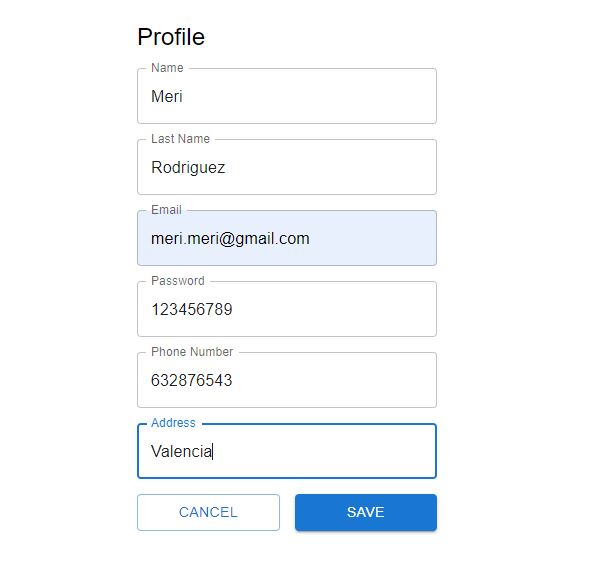
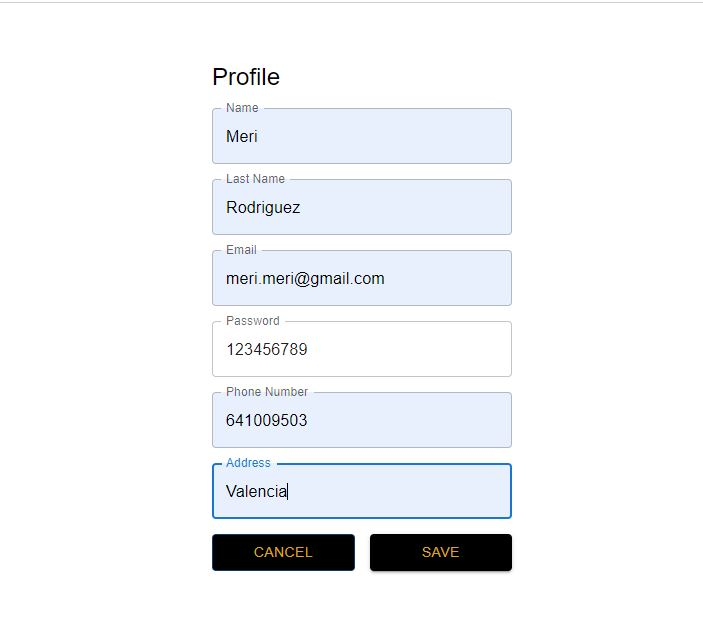
feat: clear code register, insert profile navbar

Changed region(s): [[0.2125, 0.031, 0.7589, 0.9294]]

diff --git a/src/components/navbar/NavBar.jsx b/src/components/navbar/NavBar.jsx
@@ -23,6 +23,7 @@ let navItems = [
   { name: "Appointments", path: "/appointments" },
   { name: "Login", path: "/login", protected: false },
   { name: "Register", path: "/register", protected: false },
+  { name: "Profile", path: "/profile" },
 ];
 
 function NavBar(props) {
@@ -108,7 +109,11 @@ function NavBar(props) {
               >
                 <Button
                   key={item.name}
-                  sx={{ color: "goldenrod", backgroundColor: item.name }}
+                  sx={{
+                    color: "goldenrod",
+                    backgroundColor:
+                      item.name === "Profile" ? "black" : "transparent",
+                  }}
                 >
                   {item.name}
                 </Button>

diff --git a/src/pages/auth/Register.jsx b/src/pages/auth/Register.jsx
@@ -52,11 +52,7 @@ const Register = () => {
         gap="15px"
       >
         {message && <Alert severity="success">{message}</Alert>}
-        {/*<Avatar
-          alt="User Avatar"
-          src="C:\Users\Usuario\Desktop\diseños_rutas_cliente_empleado_admin\Beautiful_Skin.jpg"
-          sx={{ width: 80, height: 80, alignSelf: "flex-end" }}
-        />*/}
+
         <Typography variant="h5">Register</Typography>
         <Stack direction="row" spacing="15px">
           <TextField

diff --git a/src/pages/auth/Profile.jsx b/src/pages/auth/Profile.jsx
@@ -35,6 +35,7 @@ export const Profile = () => {
         flexDirection="column"
         gap="15px"
         width="300px"
+        color={"black"}
       >
         <Typography variant="h5">Profile</Typography>
         <TextField
